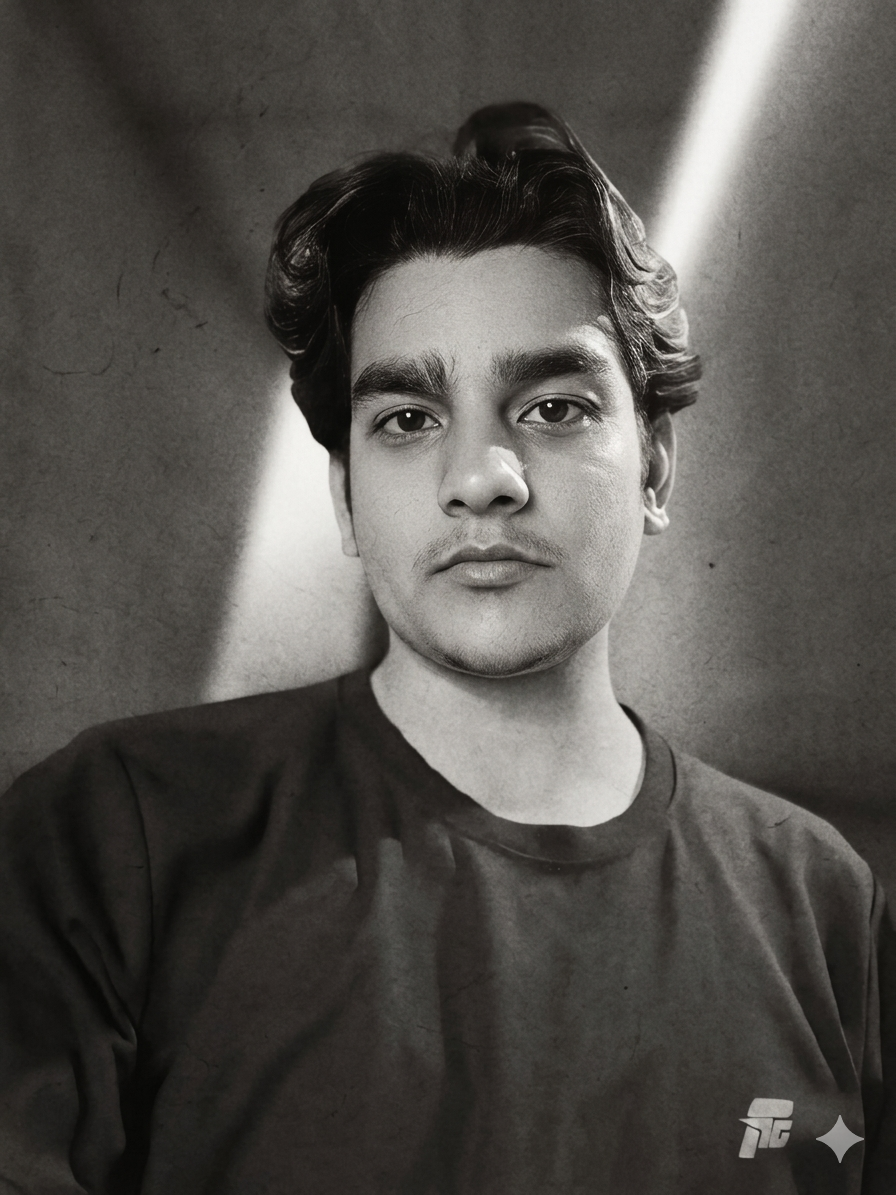
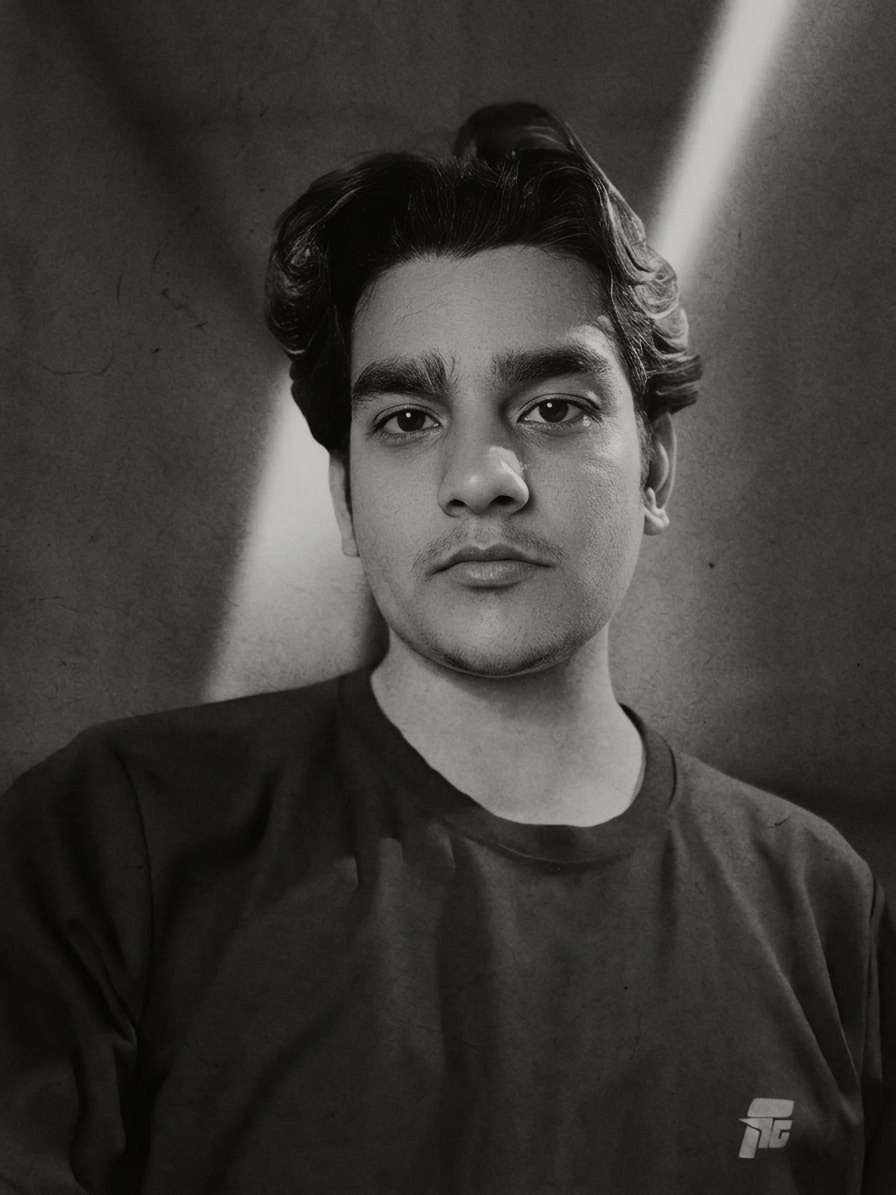
updated contact form

diff --git a/contact.html b/contact.html
@@ -46,14 +46,14 @@
       </p>
 
       <div class="contact-links">
-        <a href="mailto:alex@alexchen.dev" class="contact-link-item">
+        <a href="mailto:ashwinibhardwaj178@gmail.com" class="contact-link-item">
           <div class="contact-link-icon">✉</div>
           <div>
             <div class="contact-link-text">Email</div>
             <div class="contact-link-sub">alex@alexchen.dev</div>
           </div>
         </a>
-        <a href="https://github.com/alexchen" target="_blank" class="contact-link-item">
+        <a href="https://github.com/ashwinibhardwaj" target="_blank" class="contact-link-item">
           <div class="contact-link-icon">
             <svg width="18" height="18" viewBox="0 0 24 24" fill="var(--amber)"><path d="M12 2C6.477 2 2 6.484 2 12.017c0 4.425 2.865 8.18 6.839 9.504.5.092.682-.217.682-.483 0-.237-.008-.868-.013-1.703-2.782.605-3.369-1.343-3.369-1.343-.454-1.158-1.11-1.466-1.11-1.466-.908-.62.069-.608.069-.608 1.003.07 1.531 1.032 1.531 1.032.892 1.53 2.341 1.088 2.91.832.092-.647.35-1.088.636-1.338-2.22-.253-4.555-1.113-4.555-4.951 0-1.093.39-1.988 1.029-2.688-.103-.253-.446-1.272.098-2.65 0 0 .84-.27 2.75 1.026A9.564 9.564 0 0112 6.844c.85.004 1.705.115 2.504.337 1.909-1.296 2.747-1.027 2.747-1.027.546 1.379.202 2.398.1 2.651.64.7 1.028 1.595 1.028 2.688 0 3.848-2.339 4.695-4.566 4.943.359.309.678.92.678 1.855 0 1.338-.012 2.419-.012 2.747 0 .268.18.58.688.482A10.019 10.019 0 0022 12.017C22 6.484 17.522 2 12 2z"/></svg>
           </div>
@@ -62,18 +62,11 @@
             <div class="contact-link-sub">github.com/alexchen</div>
           </div>
         </a>
-        <a href="https://linkedin.com/in/alexchen" target="_blank" class="contact-link-item">
+        <a href="https://www.linkedin.com/in/ashwini-bhardwaj/" target="_blank" class="contact-link-item">
           <div class="contact-link-icon" style="font-size:1rem;color:var(--amber);font-weight:700;font-family:var(--sans)">in</div>
           <div>
             <div class="contact-link-text">LinkedIn</div>
             <div class="contact-link-sub">linkedin.com/in/alexchen</div>
-          </div>
-        </a>
-        <a href="https://twitter.com/alexchen_ai" target="_blank" class="contact-link-item">
-          <div class="contact-link-icon" style="font-size:1rem;color:var(--amber);font-weight:700;font-family:var(--mono)">𝕏</div>
-          <div>
-            <div class="contact-link-text">Twitter / X</div>
-            <div class="contact-link-sub">@alexchen_ai</div>
           </div>
         </a>
       </div>
@@ -113,7 +106,7 @@
 
           <div class="form-group">
             <label for="message">Message</label>
-            <textarea class="form-control" id="message" name="message" placeholder="Tell me about your project — the problem you're solving, the tech you're considering, and the timeline you're working with..." required></textarea>
+            <textarea class="form-control" id="message" name="message" placeholder="hello...." required></textarea>
           </div>
 
           <div id="form-success" style="display:none;padding:16px;background:rgba(245,166,35,0.1);border:1px solid rgba(245,166,35,0.3);border-radius:8px;color:var(--amber);margin-bottom:16px;font-size:0.9rem">
